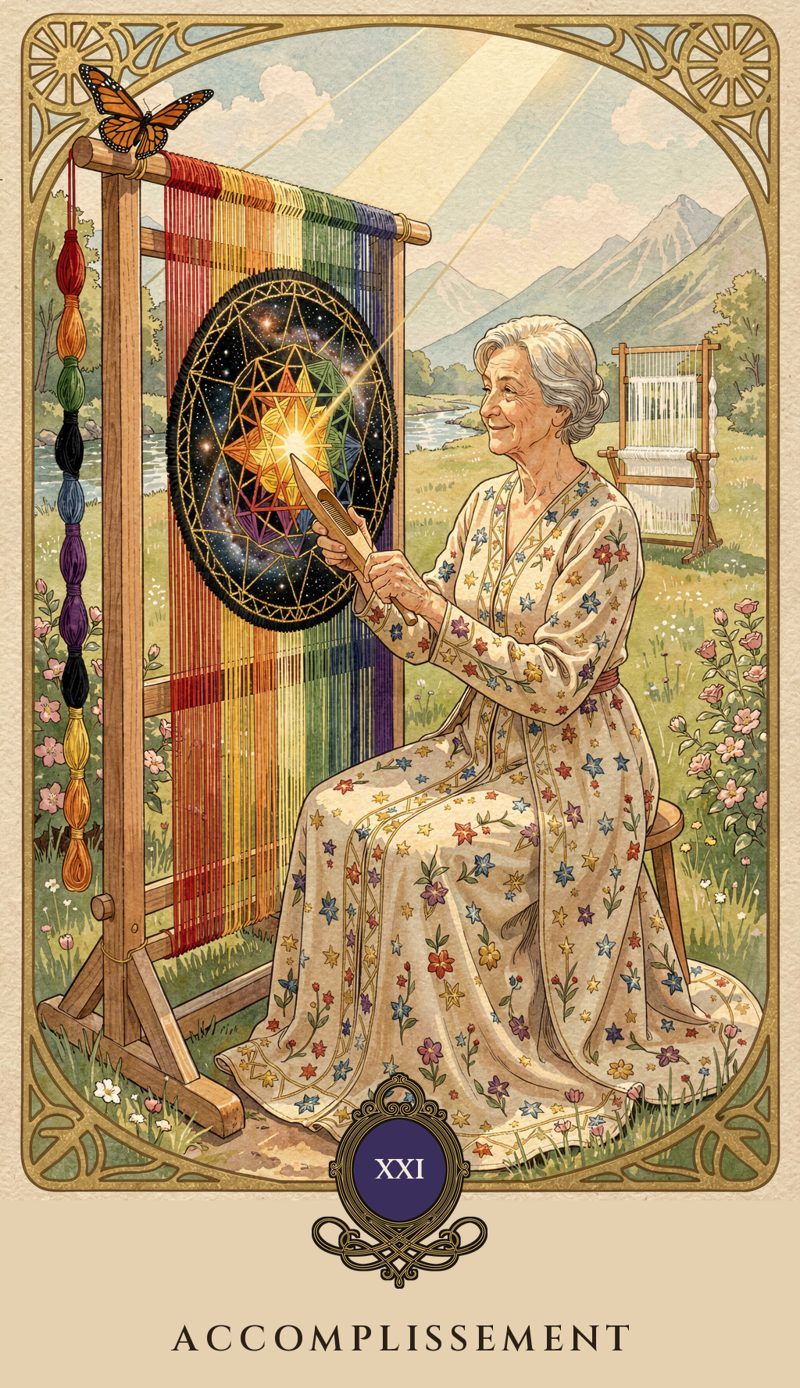
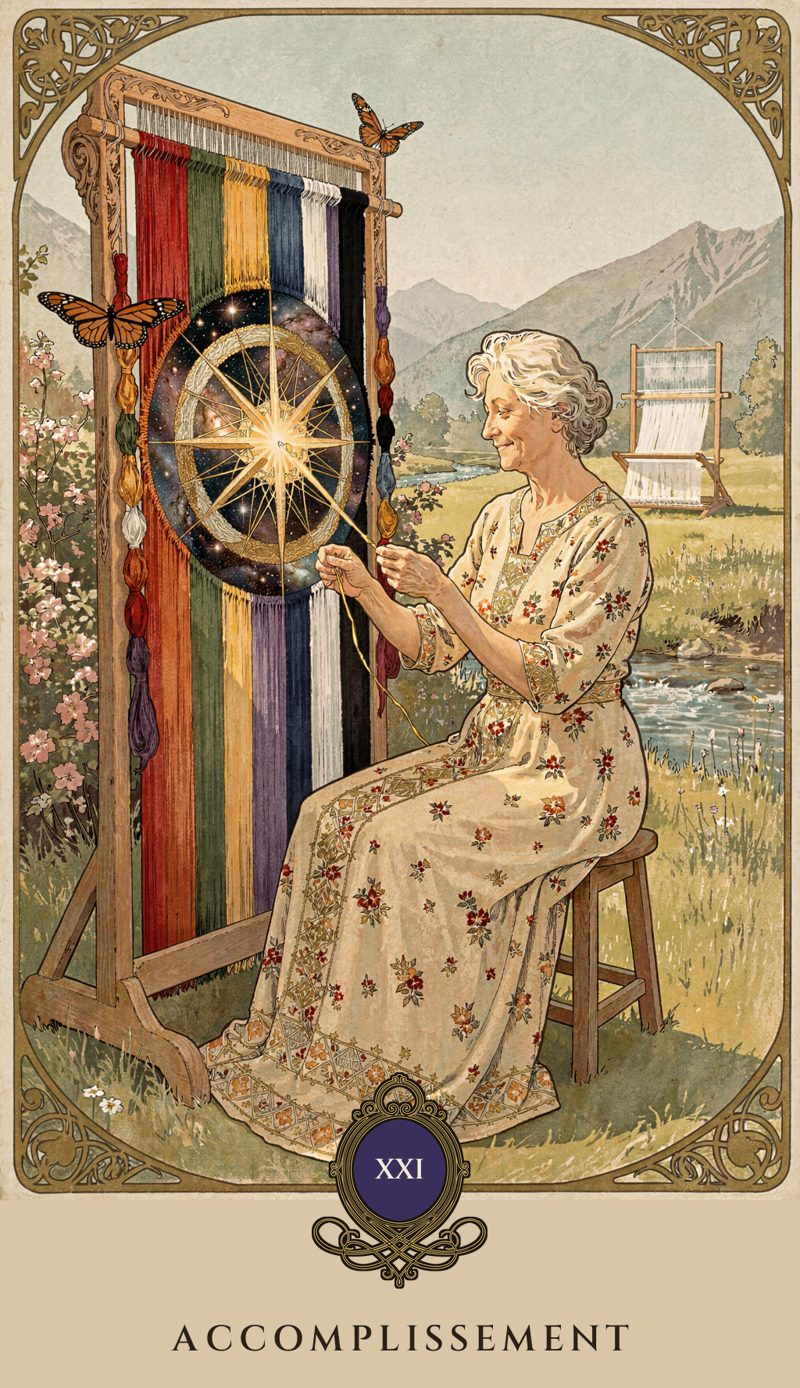
XXI · Accomplissement : master refondu (plus calme, les mains nouent le fil au centre) + textes alignés
- même composition qu'avant, palette tenue (v30, graine 777077) ; la navette et le
  battant remplacés par les doigts qui nouent le dernier fil au centre du mandala
- lecture publique et filet des symboles : « navette » → « doigts »
- image de l'app et miniature régénérées ; pytest : 768 passed, 11 skipped

diff --git a/tests/test_lectures.py b/tests/test_lectures.py
@@ -62,7 +62,7 @@ SYMBOLES_REQUIS = {
          "lumière", "palmier", "citronnier", "fleurs", "chat"],
     20: ["statue", "visage", "pierre", "terre", "femme", "robe",
          "frangipanier", "lumière", "herbe", "mousse"],
-    21: ["tisserande", "métier", "mandala", "étoiles", "galaxies", "navette",
+    21: ["tisserande", "métier", "mandala", "étoiles", "galaxies", "doigts",
          "rayon de soleil", "centre", "arc-en-ciel", "papillon", "vierge"],
 }
 
